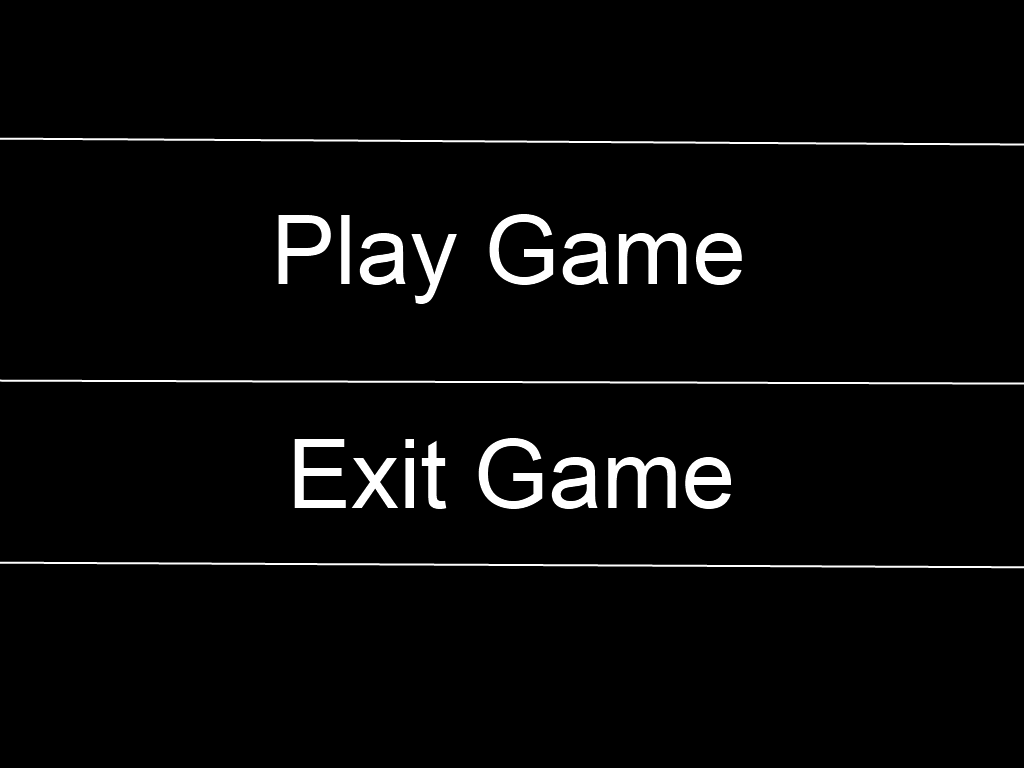
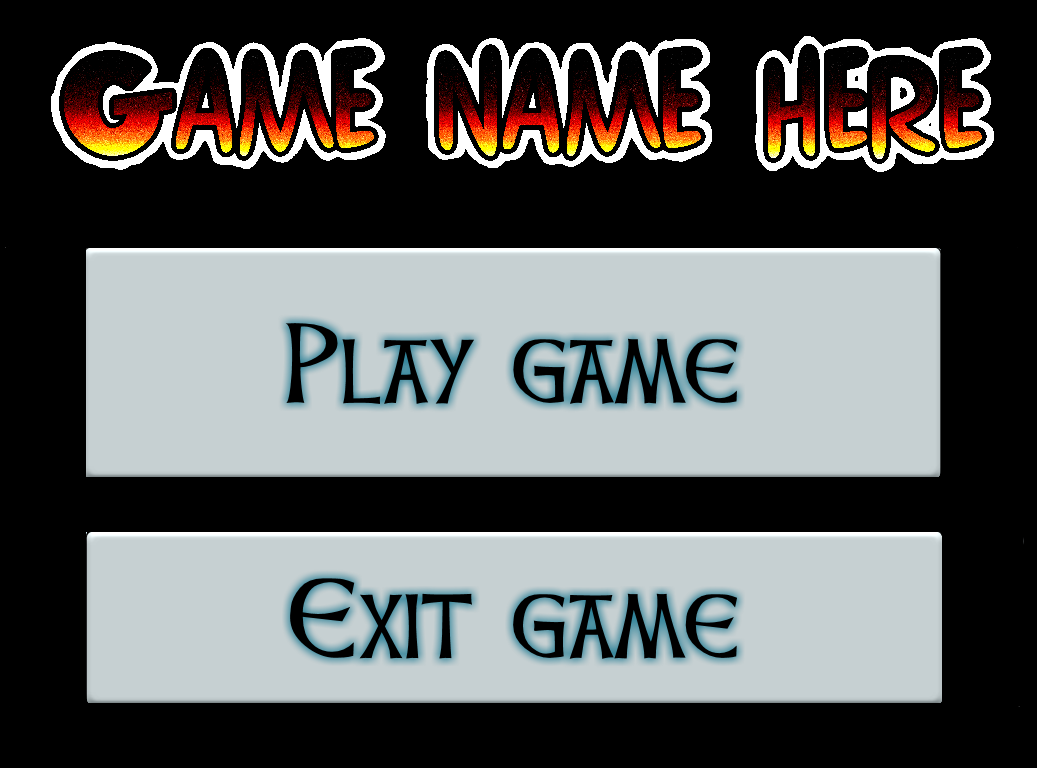
New game menu

diff --git a/src/MainMenu.cpp b/src/MainMenu.cpp
@@ -11,18 +11,18 @@ MainMenu::MenuResult MainMenu::Show(sf::RenderWindow& window)
 
 	//Play menu item coordinates
 	MenuItem playButton;
-	playButton.rect.Top= 145;
-	playButton.rect.Bottom = 380;
-	playButton.rect.Left = 0;
-	playButton.rect.Right = 1023;
+	playButton.rect.Top= 248;
+	playButton.rect.Bottom = 475;
+	playButton.rect.Left = 85;
+	playButton.rect.Right = 940;
 	playButton.action = Play;
 
 	//Exit menu item coordinates
 	MenuItem exitButton;
-	exitButton.rect.Left = 0;
-	exitButton.rect.Right = 1023;
-	exitButton.rect.Top = 383;
-	exitButton.rect.Bottom = 560;
+	exitButton.rect.Left = 85;
+	exitButton.rect.Right = 945;
+	exitButton.rect.Top = 532;
+	exitButton.rect.Bottom = 702;
 	exitButton.action = Exit;
 
 	_menuItems.push_back(playButton);
